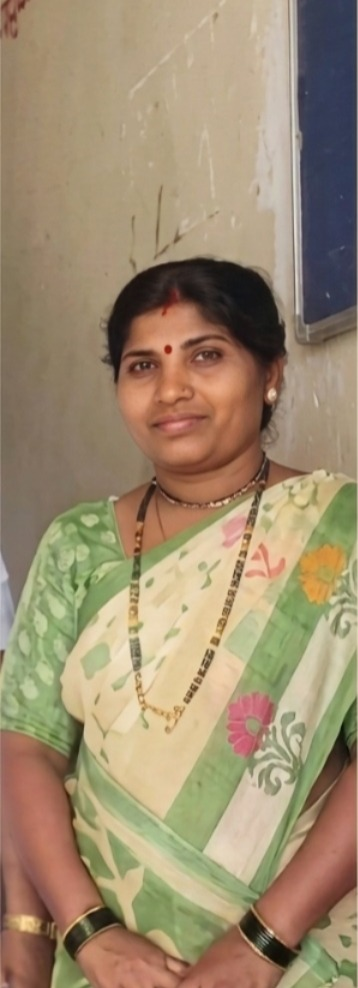
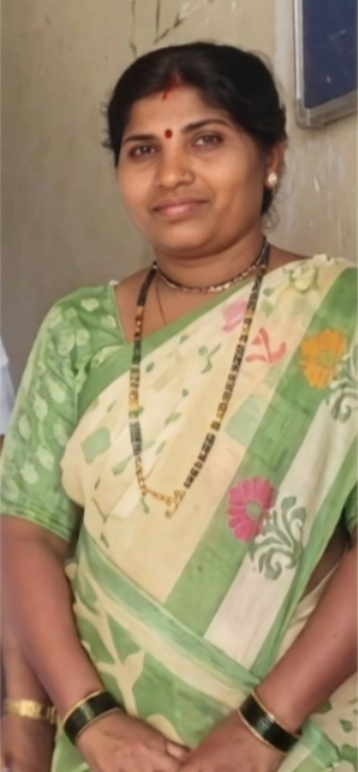
updated login page

diff --git a/src/components/LoginPage.jsx b/src/components/LoginPage.jsx
@@ -1,17 +1,21 @@
-import React, { useState, useEffect } from "react";
+import React, { useState, useEffect, useRef } from "react";
 import { useNavigate } from "react-router-dom";
+import { FaEye, FaEyeSlash } from "react-icons/fa";
 import "./Login.css";
 
-const POPUP_DURATION = 3000;
+const POPUP_DURATION = 3500;
+const SUCCESS_NAV_DELAY_MS = 2800;
 const SESSION_KEY = "isLoggedIn";
 
 const LoginPage = ({ onLogin }) => {
   const navigate = useNavigate();
+  const navigateAfterLoginRef = useRef(null);
   const adminUser = import.meta.env.VITE_ADMIN_USER ?? "admin";
   const adminPassword = import.meta.env.VITE_ADMIN_PASSWORD ?? "admin0511";
 
   const [username, setUsername] = useState("");
   const [password, setPassword] = useState("");
+  const [showPassword, setShowPassword] = useState(false);
   const [focused, setFocused] = useState({ username: false, password: false });
   const [popup, setPopup] = useState({ show: false, type: "success", message: "" });
 
@@ -22,10 +26,19 @@ const LoginPage = ({ onLogin }) => {
   }, [navigate]);
 
   useEffect(() => {
-    if (!popup.show) return;
+    return () => {
+      if (navigateAfterLoginRef.current) {
+        clearTimeout(navigateAfterLoginRef.current);
+        navigateAfterLoginRef.current = null;
+      }
+    };
+  }, []);
+
+  useEffect(() => {
+    if (!popup.show || popup.type !== "error") return;
     const timer = setTimeout(() => setPopup((p) => ({ ...p, show: false })), POPUP_DURATION);
     return () => clearTimeout(timer);
-  }, [popup.show]);
+  }, [popup.show, popup.type]);
 
   const handleSubmit = (e) => {
     e.preventDefault();
@@ -36,10 +49,21 @@ const LoginPage = ({ onLogin }) => {
       return;
     }
     if (user === adminUser && pass === adminPassword) {
+      /* Session first so "/" can authenticate; defer onLogin() until after popup —
+         immediate onLogin() sets App isLoggedIn and swaps this route for <Navigate />,
+         which unmounts LoginPage before the success popup can paint. */
       sessionStorage.setItem(SESSION_KEY, "true");
-      onLogin?.();
-      setPopup({ show: true, type: "success", message: "Login successful! Welcome back." });
-      navigate("/", { replace: true });
+      setPopup({
+        show: true,
+        type: "success",
+        message: "You are signed in. Taking you to the school home…",
+      });
+      if (navigateAfterLoginRef.current) clearTimeout(navigateAfterLoginRef.current);
+      navigateAfterLoginRef.current = setTimeout(() => {
+        navigateAfterLoginRef.current = null;
+        onLogin?.();
+        navigate("/", { replace: true });
+      }, SUCCESS_NAV_DELAY_MS);
     } else {
       setPopup({ show: true, type: "error", message: "Invalid username or password." });
     }
@@ -48,26 +72,41 @@ const LoginPage = ({ onLogin }) => {
   return (
     <div className="login-page">
       {popup.show && (
-        <div
-          className={`login-popup login-popup-${popup.type}`}
-          role="alert"
-          style={{
-            position: "fixed",
-            top: 0,
-            left: "50%",
-            transform: "translateX(-50%)",
-            zIndex: 10000,
-            padding: "14px 24px",
-            borderRadius: "0 0 8px 8px",
-            color: "#fff",
-            fontWeight: 600,
-            fontSize: "1rem",
-            boxShadow: "0 4px 12px rgba(0,0,0,0.2)",
-            maxWidth: "90vw",
-            textAlign: "center",
-          }}
-        >
-          {popup.message}
+        <div className={`login-popup-backdrop login-popup-backdrop--${popup.type}`} aria-live="polite">
+          <div
+            className="login-popup-dialog"
+            role="alertdialog"
+            aria-modal="true"
+            aria-labelledby="login-popup-title"
+          >
+            {popup.type === "success" ? (
+              <div className="login-popup-icon login-popup-icon--success" aria-hidden>
+                <svg viewBox="0 0 24 24" width="28" height="24" fill="none" stroke="currentColor" strokeWidth="2.5">
+                  <path d="M20 6L9 17l-5-5" strokeLinecap="round" strokeLinejoin="round" />
+                </svg>
+              </div>
+            ) : (
+              <div className="login-popup-icon login-popup-icon--error" aria-hidden>
+                !
+              </div>
+            )}
+            <h2 id="login-popup-title" className="login-popup-title">
+              {popup.type === "success" ? "Login successful" : "Sign in failed"}
+            </h2>
+            <p className="login-popup-message">{popup.message}</p>
+            {popup.type === "error" && (
+              <button
+                type="button"
+                className="login-popup-dismiss"
+                onClick={() => setPopup((p) => ({ ...p, show: false }))}
+              >
+                OK
+              </button>
+            )}
+            {popup.type === "success" && (
+              <p className="login-popup-hint">Redirecting in a moment…</p>
+            )}
+          </div>
         </div>
       )}
       <div className="login-bg">
@@ -118,19 +157,31 @@ const LoginPage = ({ onLogin }) => {
                 >
                   Password
                 </label>
-                <input
-                  id="login-password"
-                  type="password"
-                  className="login-input"
-                  placeholder="Enter password"
-                  value={password}
-                  onChange={(e) => setPassword(e.target.value)}
-                  onFocus={() => setFocused((f) => ({ ...f, password: true }))}
-                  onBlur={() => setFocused((f) => ({ ...f, password: false }))}
-                  autoComplete="current-password"
-                  required
-                />
-                <span className="login-input-border" />
+                <div className="login-input-wrap">
+                  <input
+                    id="login-password"
+                    type={showPassword ? "text" : "password"}
+                    className="login-input login-input--password-toggle"
+                    placeholder="Enter password"
+                    value={password}
+                    onChange={(e) => setPassword(e.target.value)}
+                    onFocus={() => setFocused((f) => ({ ...f, password: true }))}
+                    onBlur={() => setFocused((f) => ({ ...f, password: false }))}
+                    autoComplete="current-password"
+                    required
+                  />
+                  <button
+                    type="button"
+                    className="login-password-toggle"
+                    onClick={() => setShowPassword((v) => !v)}
+                    onMouseDown={(e) => e.preventDefault()}
+                    aria-label={showPassword ? "Hide password" : "Show password"}
+                    aria-pressed={showPassword}
+                  >
+                    {showPassword ? <FaEyeSlash aria-hidden /> : <FaEye aria-hidden />}
+                  </button>
+                  <span className="login-input-border" />
+                </div>
               </div>
 
               <div className="login-options">

diff --git a/src/components/Login.css b/src/components/Login.css
@@ -274,10 +274,57 @@
   transform-origin: center;
   transition: transform 0.3s ease;
   border-radius: 0 0 var(--login-radius-sm) var(--login-radius-sm);
+  pointer-events: none;
 }
 
-.login-input:focus + .login-input-border {
+.login-input:focus + .login-input-border,
+.login-input-wrap .login-input:focus ~ .login-input-border {
   transform: scaleX(1);
+}
+
+/* Password field + show/hide toggle */
+.login-input-wrap {
+  position: relative;
+}
+
+.login-input--password-toggle {
+  padding-right: 48px;
+}
+
+.login-password-toggle {
+  position: absolute;
+  right: 8px;
+  top: 50%;
+  transform: translateY(-50%);
+  display: inline-flex;
+  align-items: center;
+  justify-content: center;
+  width: 40px;
+  height: 40px;
+  padding: 0;
+  margin: 0;
+  border: none;
+  border-radius: 8px;
+  background: transparent;
+  color: var(--login-muted);
+  cursor: pointer;
+  transition: color 0.2s ease, background 0.2s ease;
+}
+
+.login-password-toggle:hover {
+  color: var(--login-primary);
+  background: rgba(37, 99, 235, 0.08);
+}
+
+.login-password-toggle:focus-visible {
+  outline: 2px solid var(--login-primary);
+  outline-offset: 2px;
+}
+
+.login-password-toggle svg {
+  width: 1.15rem;
+  height: 1.15rem;
+  flex-shrink: 0;
 }
 
 .login-error {
@@ -570,35 +617,135 @@
   }
 }
 
-/* Login popup - top center, success (green) / error (red) */
-.login-popup {
-  animation: loginPopupIn 0.3s ease-out;
+/* Success / error popup (modal) */
+.login-popup-backdrop {
+  position: fixed;
+  inset: 0;
+  z-index: 10000;
+  display: flex;
+  align-items: center;
+  justify-content: center;
+  padding: 24px 16px;
+  box-sizing: border-box;
+  animation: loginBackdropIn 0.25s ease-out;
 }
 
-.login-popup-success {
-  background-color: #28a745 !important;
-  color: #fff;
+.login-popup-backdrop--success {
+  background: rgba(15, 23, 42, 0.35);
+  backdrop-filter: blur(4px);
+  -webkit-backdrop-filter: blur(4px);
 }
 
-.login-popup-error {
-  background-color: #dc3545 !important;
-  color: #fff;
+.login-popup-backdrop--error {
+  background: rgba(15, 23, 42, 0.4);
+  backdrop-filter: blur(4px);
+  -webkit-backdrop-filter: blur(4px);
 }
 
-@keyframes loginPopupIn {
+@keyframes loginBackdropIn {
   from {
     opacity: 0;
-    transform: translateX(-50%) translateY(-12px);
   }
   to {
     opacity: 1;
-    transform: translateX(-50%) translateY(0);
   }
 }
 
+.login-popup-dialog {
+  width: 100%;
+  max-width: 360px;
+  padding: 28px 24px 24px;
+  border-radius: var(--login-radius);
+  background: #fff;
+  box-shadow: 0 24px 48px -12px rgba(0, 0, 0, 0.25);
+  text-align: center;
+  animation: loginDialogIn 0.35s cubic-bezier(0.22, 1, 0.36, 1);
+}
+
+@keyframes loginDialogIn {
+  from {
+    opacity: 0;
+    transform: translateY(16px) scale(0.96);
+  }
+  to {
+    opacity: 1;
+    transform: translateY(0) scale(1);
+  }
+}
+
+.login-popup-icon {
+  width: 56px;
+  height: 56px;
+  margin: 0 auto 16px;
+  border-radius: 50%;
+  display: flex;
+  align-items: center;
+  justify-content: center;
+  font-size: 1.75rem;
+  font-weight: 800;
+  line-height: 1;
+}
+
+.login-popup-icon--success {
+  background: linear-gradient(135deg, #22c55e, #16a34a);
+  color: #fff;
+}
+
+.login-popup-icon--error {
+  background: linear-gradient(135deg, #f87171, #dc2626);
+  color: #fff;
+}
+
+.login-popup-title {
+  margin: 0 0 10px;
+  font-family: var(--login-font-display);
+  font-size: 1.25rem;
+  font-weight: 700;
+  color: var(--login-text);
+}
+
+.login-popup-message {
+  margin: 0;
+  font-size: 0.9375rem;
+  color: var(--login-muted);
+  line-height: 1.5;
+}
+
+.login-popup-hint {
+  margin: 16px 0 0;
+  font-size: 0.8125rem;
+  color: var(--login-muted);
+}
+
+.login-popup-dismiss {
+  margin-top: 20px;
+  padding: 10px 28px;
+  font-size: 0.9375rem;
+  font-weight: 600;
+  font-family: var(--login-font);
+  color: #fff;
+  background: var(--login-primary);
+  border: none;
+  border-radius: var(--login-radius-sm);
+  cursor: pointer;
+  transition: background 0.2s ease;
+}
+
+.login-popup-dismiss:hover {
+  background: var(--login-primary-hover);
+}
+
+.login-popup-dismiss:focus-visible {
+  outline: 2px solid var(--login-primary);
+  outline-offset: 2px;
+}
+
 @media (max-width: 480px) {
-  .login-popup {
-    font-size: 0.9rem;
-    padding: 12px 18px !important;
+  .login-popup-dialog {
+    padding: 24px 20px 20px;
+  }
+
+  .login-popup-title {
+    font-size: 1.1rem;
   }
 }

diff --git a/src/data/hostelData.js b/src/data/hostelData.js
@@ -26,7 +26,7 @@ export const boysHouses = [
     name: "Godhawari House",
     houseMaster: "Rajkumar Sir",
     houseLeader: "Hrutik",
-    roommates: ["Jatteppa", "Mallikarjun", "Praveen","Viresh", "Mahesh", "Hrutik"],
+    roommates: ["Jatteppa", "Mallikarjun","Viresh", "Mahesh", "Hrutik"],
   },
 ];
 
